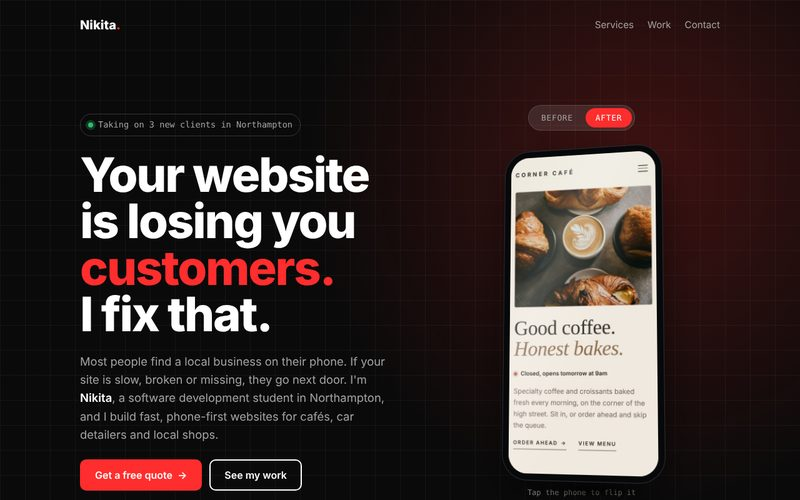
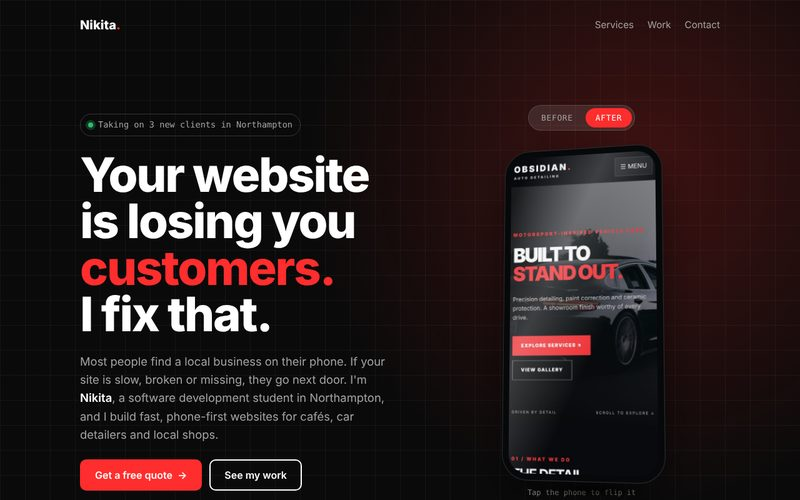
OBSIDIAN on the phone, new before site, fix page title

Changed region(s): [[0.625, 0.3, 0.8438, 0.96]]

diff --git a/index.html b/index.html
@@ -3,7 +3,8 @@
 <head>
 <meta charset="utf-8">
 <meta name="viewport" content="width=device-width, initial-scale=1">
-<title>Portfolio Starter</title>
+<title>Nikita | Websites for Local Businesses</title>
+<meta name="description" content="Nikita builds fast, phone-first websites for cafés, car detailers and local shops in Northampton.">
 <link rel="preconnect" href="https://fonts.googleapis.com">
 <link rel="preconnect" href="https://fonts.gstatic.com" crossorigin>
 <link href="https://fonts.googleapis.com/css2?family=Bricolage+Grotesque:opsz,wght@12..96,500;12..96,700;12..96,800&family=IBM+Plex+Sans:wght@400;500;600&family=IBM+Plex+Mono:wght@400;500&display=swap" rel="stylesheet">
@@ -236,7 +237,7 @@ h1 em {
 .phone-shot { width: 100%; height: 100%; object-fit: cover; object-position: top; display: block; }
 .mock .shot { width: 100%; height: 100%; object-fit: cover; object-position: top; display: block; border-radius: 0 0 2px 2px; }
 .face.front {
-  background: #efe9df;
+  background: #090a0d;
   color: #2b1d14;
   font-family: var(--body);
 }
@@ -254,31 +255,62 @@ h1 em {
   z-index: 5;
 }
 
-/* The ugly old site, on the back of the phone */
-.old {
-  color: #000;
-  font-family: "Times New Roman", Times, serif;
-  font-size: 12px;
-  line-height: 1.35;
-  padding: 26px 10px 10px;
-  display: grid;
-  gap: 8px;
+/* The "before": a typical bad modern site, a desktop template squashed onto a phone */
+.face.back { background: #fff; }
+.bad {
+  position: absolute; inset: 0;
+  font-family: Arial, Helvetica, sans-serif;
+  color: #333;
+  background: #f4f4f4;
+  overflow: hidden;
 }
-.old .marquee { background: #000080; color: #ffff00; font-weight: bold; text-align: center; padding: 4px; font-size: 13px; }
-.old a { color: #0000ee; }
-.old .uc {
-  color: #000; font-weight: bold; text-align: center; padding: 4px;
-  background: repeating-linear-gradient(45deg, #ffd800 0 10px, #111 10px 20px);
+.bad-top {
+  display: flex; align-items: center; gap: 6px;
+  padding: 26px 6px 5px;
+  background: #fff;
+  border-bottom: 1px solid #ddd;
 }
-.old .uc span { background: #ffd800; padding: 0 4px; }
-.old .broken {
-  border: 2px inset #c0c0c0; height: 70px; display: grid; place-items: center;
-  color: #777; font-size: 11px; background: #eee;
+.bad-logo { font-weight: 700; font-size: 8px; color: #2a6ebb; white-space: nowrap; }
+.bad-nav { font-size: 5.5px; color: #555; white-space: nowrap; overflow: hidden; }
+.bad-hero {
+  height: 92px;
+  background: linear-gradient(135deg, #9fb3c8, #c9d3dd 45%, #8e9eae);
+  padding: 14px 8px;
+  display: grid; align-content: center; gap: 3px;
 }
-.old table { border-collapse: collapse; width: 100%; }
-.old td { border: 1px solid #999; padding: 2px 4px; }
-.old .counter { font-family: "Courier New", monospace; background: #000; color: #0f0; padding: 1px 4px; }
-.old .tiny { font-size: 9px; color: #666; }
+.bad-hero b { font-weight: 300; font-size: 11px; color: #f2f4f6; letter-spacing: .02em; }
+.bad-hero span { font-size: 5.5px; color: #eef1f4; }
+.bad-hero i { font-style: normal; justify-self: start; margin-top: 3px; background: #f39c12; color: #fff; font-size: 5.5px; padding: 3px 6px; border-radius: 2px; }
+.bad-cols { display: grid; grid-template-columns: repeat(3, 1fr); gap: 5px; padding: 7px 6px; }
+.bad-cols div { background: #fff; padding: 4px; font-size: 4.5px; line-height: 1.35; color: #777; }
+.bad-cols b { display: block; font-size: 5.5px; color: #2a6ebb; margin-bottom: 2px; }
+.bad-gal { display: grid; grid-template-columns: repeat(3, 1fr); gap: 3px; padding: 0 6px 6px; }
+.bad-gal i { height: 34px; background: linear-gradient(135deg, #b8c2cc, #d9dee3); }
+.bad-gal i:nth-child(2n) { background: linear-gradient(135deg, #a9b4bf, #cdd4db); }
+.bad-why { margin: 0 6px 5px; background: #fff; padding: 5px; font-size: 4.8px; line-height: 1.5; color: #777; }
+.bad-why b { display: block; font-size: 6px; color: #2a6ebb; margin-bottom: 2px; }
+.bad-map { display: grid; place-items: center; height: 30px; background: #e3e3e3; color: #aaa; font-size: 5px; }
+.bad-foot { font-size: 4.5px; color: #999; text-align: center; padding: 4px; }
+.bad-dim { position: absolute; inset: 0; background: rgba(0,0,0,.45); }
+.bad-pop {
+  position: absolute; left: 14px; right: 14px; top: 150px;
+  background: #fff; border-radius: 4px; padding: 12px 10px 10px;
+  text-align: center; box-shadow: 0 6px 20px rgba(0,0,0,.35);
+}
+.bad-pop .x { position: absolute; right: 4px; top: 2px; font-size: 7px; color: #bbb; }
+.bad-pop b { display: block; font-size: 10px; color: #222; margin-bottom: 3px; }
+.bad-pop p { margin: 0 0 7px; font-size: 6.5px; color: #666; }
+.bad-pop .in { border: 1px solid #ccc; font-size: 6px; color: #aaa; text-align: left; padding: 5px; margin-bottom: 5px; }
+.bad-pop .sub { background: #f39c12; color: #fff; font-size: 7px; font-weight: 700; padding: 6px; }
+.bad-cookie {
+  position: absolute; left: 0; right: 0; bottom: 0;
+  background: #2b2f33; color: #ddd;
+  padding: 9px 8px 18px;
+  font-size: 6px; line-height: 1.4;
+}
+.bad-cookie .row { display: flex; gap: 6px; align-items: center; margin-top: 6px; }
+.bad-cookie .acc { flex: 1; background: #2a6ebb; color: #fff; text-align: center; font-weight: 700; padding: 6px; font-size: 7px; }
+.bad-cookie .man { font-size: 5px; text-decoration: underline; color: #aaa; }
 .notch { width: 90px; height: 22px; background: #06080a; border-radius: 0 0 14px 14px; margin: 0 auto; }
 .cafe-nav { display: flex; justify-content: space-between; align-items: center; padding: 8px 16px; font-size: 11px; }
 .cafe-nav b { font-family: var(--display); font-size: 14px; letter-spacing: -0.01em; }
@@ -560,7 +592,6 @@ footer {
 }
 @media (max-width: 440px) {
   .phone { width: 230px; }
-  .old { font-size: 11px; }
   .nav { gap: 14px; font-size: 0.9rem; }
 }
 
@@ -611,25 +642,44 @@ footer {
         <div class="tilt" id="tilt">
           <div class="phone" id="phone" aria-hidden="true">
             <div class="face back">
-              <div class="old">
-                <div class="marquee">WELCOME TO OUR WEBSITE!!!</div>
-                <div><a href="#top" tabindex="-1">Click here</a> for our menu (PDF, 14MB)</div>
-                <div class="uc"><span>UNDER CONSTRUCTION</span></div>
-                <div class="broken">[image not found]</div>
-                <table>
-                  <tr><td>Mon-Fri</td><td>9-5?</td></tr>
-                  <tr><td>Sat</td><td>call us</td></tr>
-                  <tr><td>Sun</td><td>closed (maybe)</td></tr>
-                </table>
-                <div>You are visitor no. <span class="counter">000417</span></div>
-                <div>Last updated: March 2014</div>
-                <span class="tiny">Best viewed in Internet Explorer 6 at 800x600</span>
+              <div class="bad">
+                <div class="bad-top">
+                  <span class="bad-logo">MIKES VALETING</span>
+                  <span class="bad-nav">Home | About Us | Services | Gallery | Testimonials | Contact Us | Blog</span>
+                </div>
+                <div class="bad-hero">
+                  <b>Welcome To Mikes Valeting</b>
+                  <span>Lorem ipsum dolor sit amet, consectetur adipiscing elit.</span>
+                  <i>READ MORE</i>
+                </div>
+                <div class="bad-cols">
+                  <div><b>Our Services</b>We offer a wide range of services to suit all your needs. Please contact us for more information about our services.</div>
+                  <div><b>About Us</b>Lorem ipsum dolor sit amet, consectetur adipiscing elit, sed do eiusmod tempor incididunt ut labore et dolore.</div>
+                  <div><b>Opening Times</b>Mon - Fri 9 - 5<br>Sat by appt<br>Sun closed<br>Bank hols: please call</div>
+                </div>
+                <div class="bad-gal"><i></i><i></i><i></i><i></i><i></i><i></i></div>
+                <div class="bad-why"><b>Why Choose Us?</b>&#10003; Fully insured &#10003; Competitive prices &#10003; Friendly service &#10003; 10+ years experience &#10003; Mobile service available</div>
+                <div class="bad-why"><b>Testimonials</b>&ldquo;Lorem ipsum dolor sit amet, great service would recommend&rdquo; &ndash; John D.</div>
+                <div class="bad-why"><b>Find Us</b><span class="bad-map">Map failed to load</span></div>
+                <div class="bad-foot">&copy; 2019 Mikes Valeting | Powered by SiteBuilder Pro</div>
+                <div class="bad-dim"></div>
+                <div class="bad-pop">
+                  <span class="x">&times;</span>
+                  <b>Don't miss out!</b>
+                  <p>Sign up to our newsletter for 5% off your first valet*</p>
+                  <div class="in">Enter your email address</div>
+                  <div class="sub">SUBSCRIBE</div>
+                </div>
+                <div class="bad-cookie">
+                  We use cookies to improve your experience on our website. By continuing to browse you agree to our use of cookies, privacy policy and terms and conditions.
+                  <div class="row"><span class="acc">ACCEPT ALL</span><span class="man">Manage preferences</span></div>
+                </div>
               </div>
               <div class="glare"></div>
             </div>
 
             <div class="face front">
-          <img class="phone-shot" src="images/cafe-mobile.jpg" alt="">
+          <img class="phone-shot" src="images/obsidian-mobile.jpg" alt="">
               <div class="glare"></div>
             </div>
           </div>
